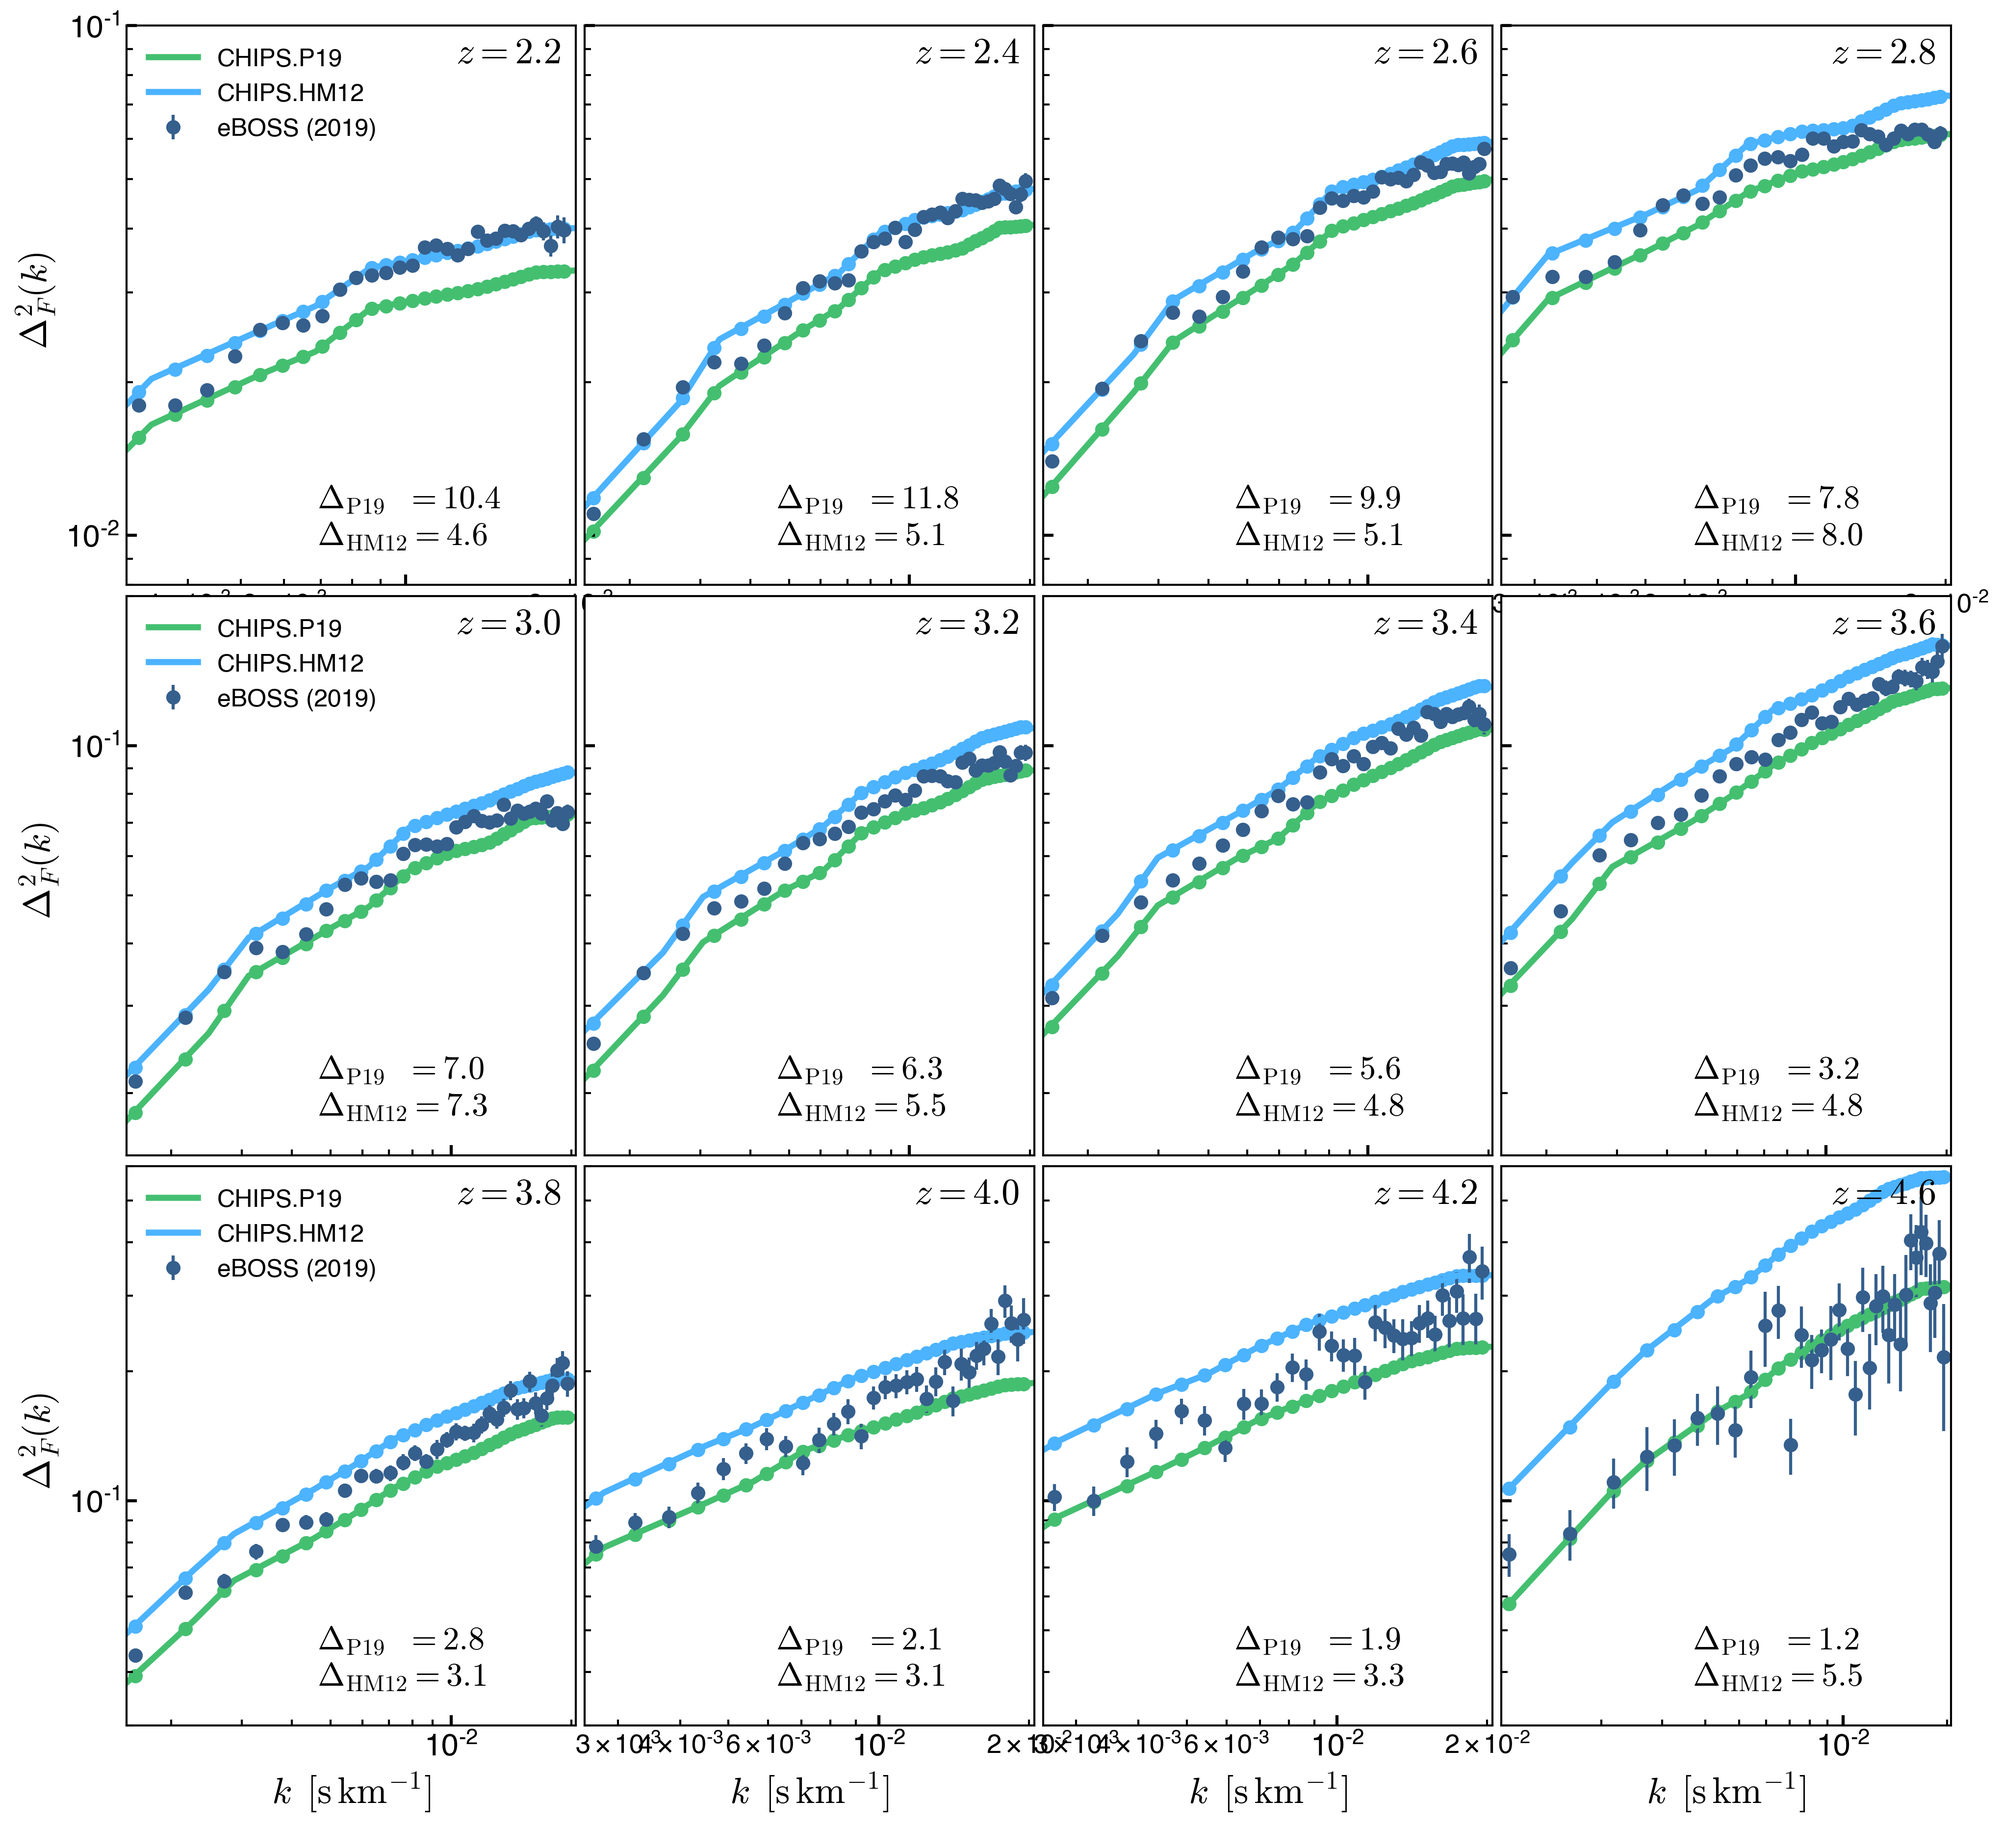
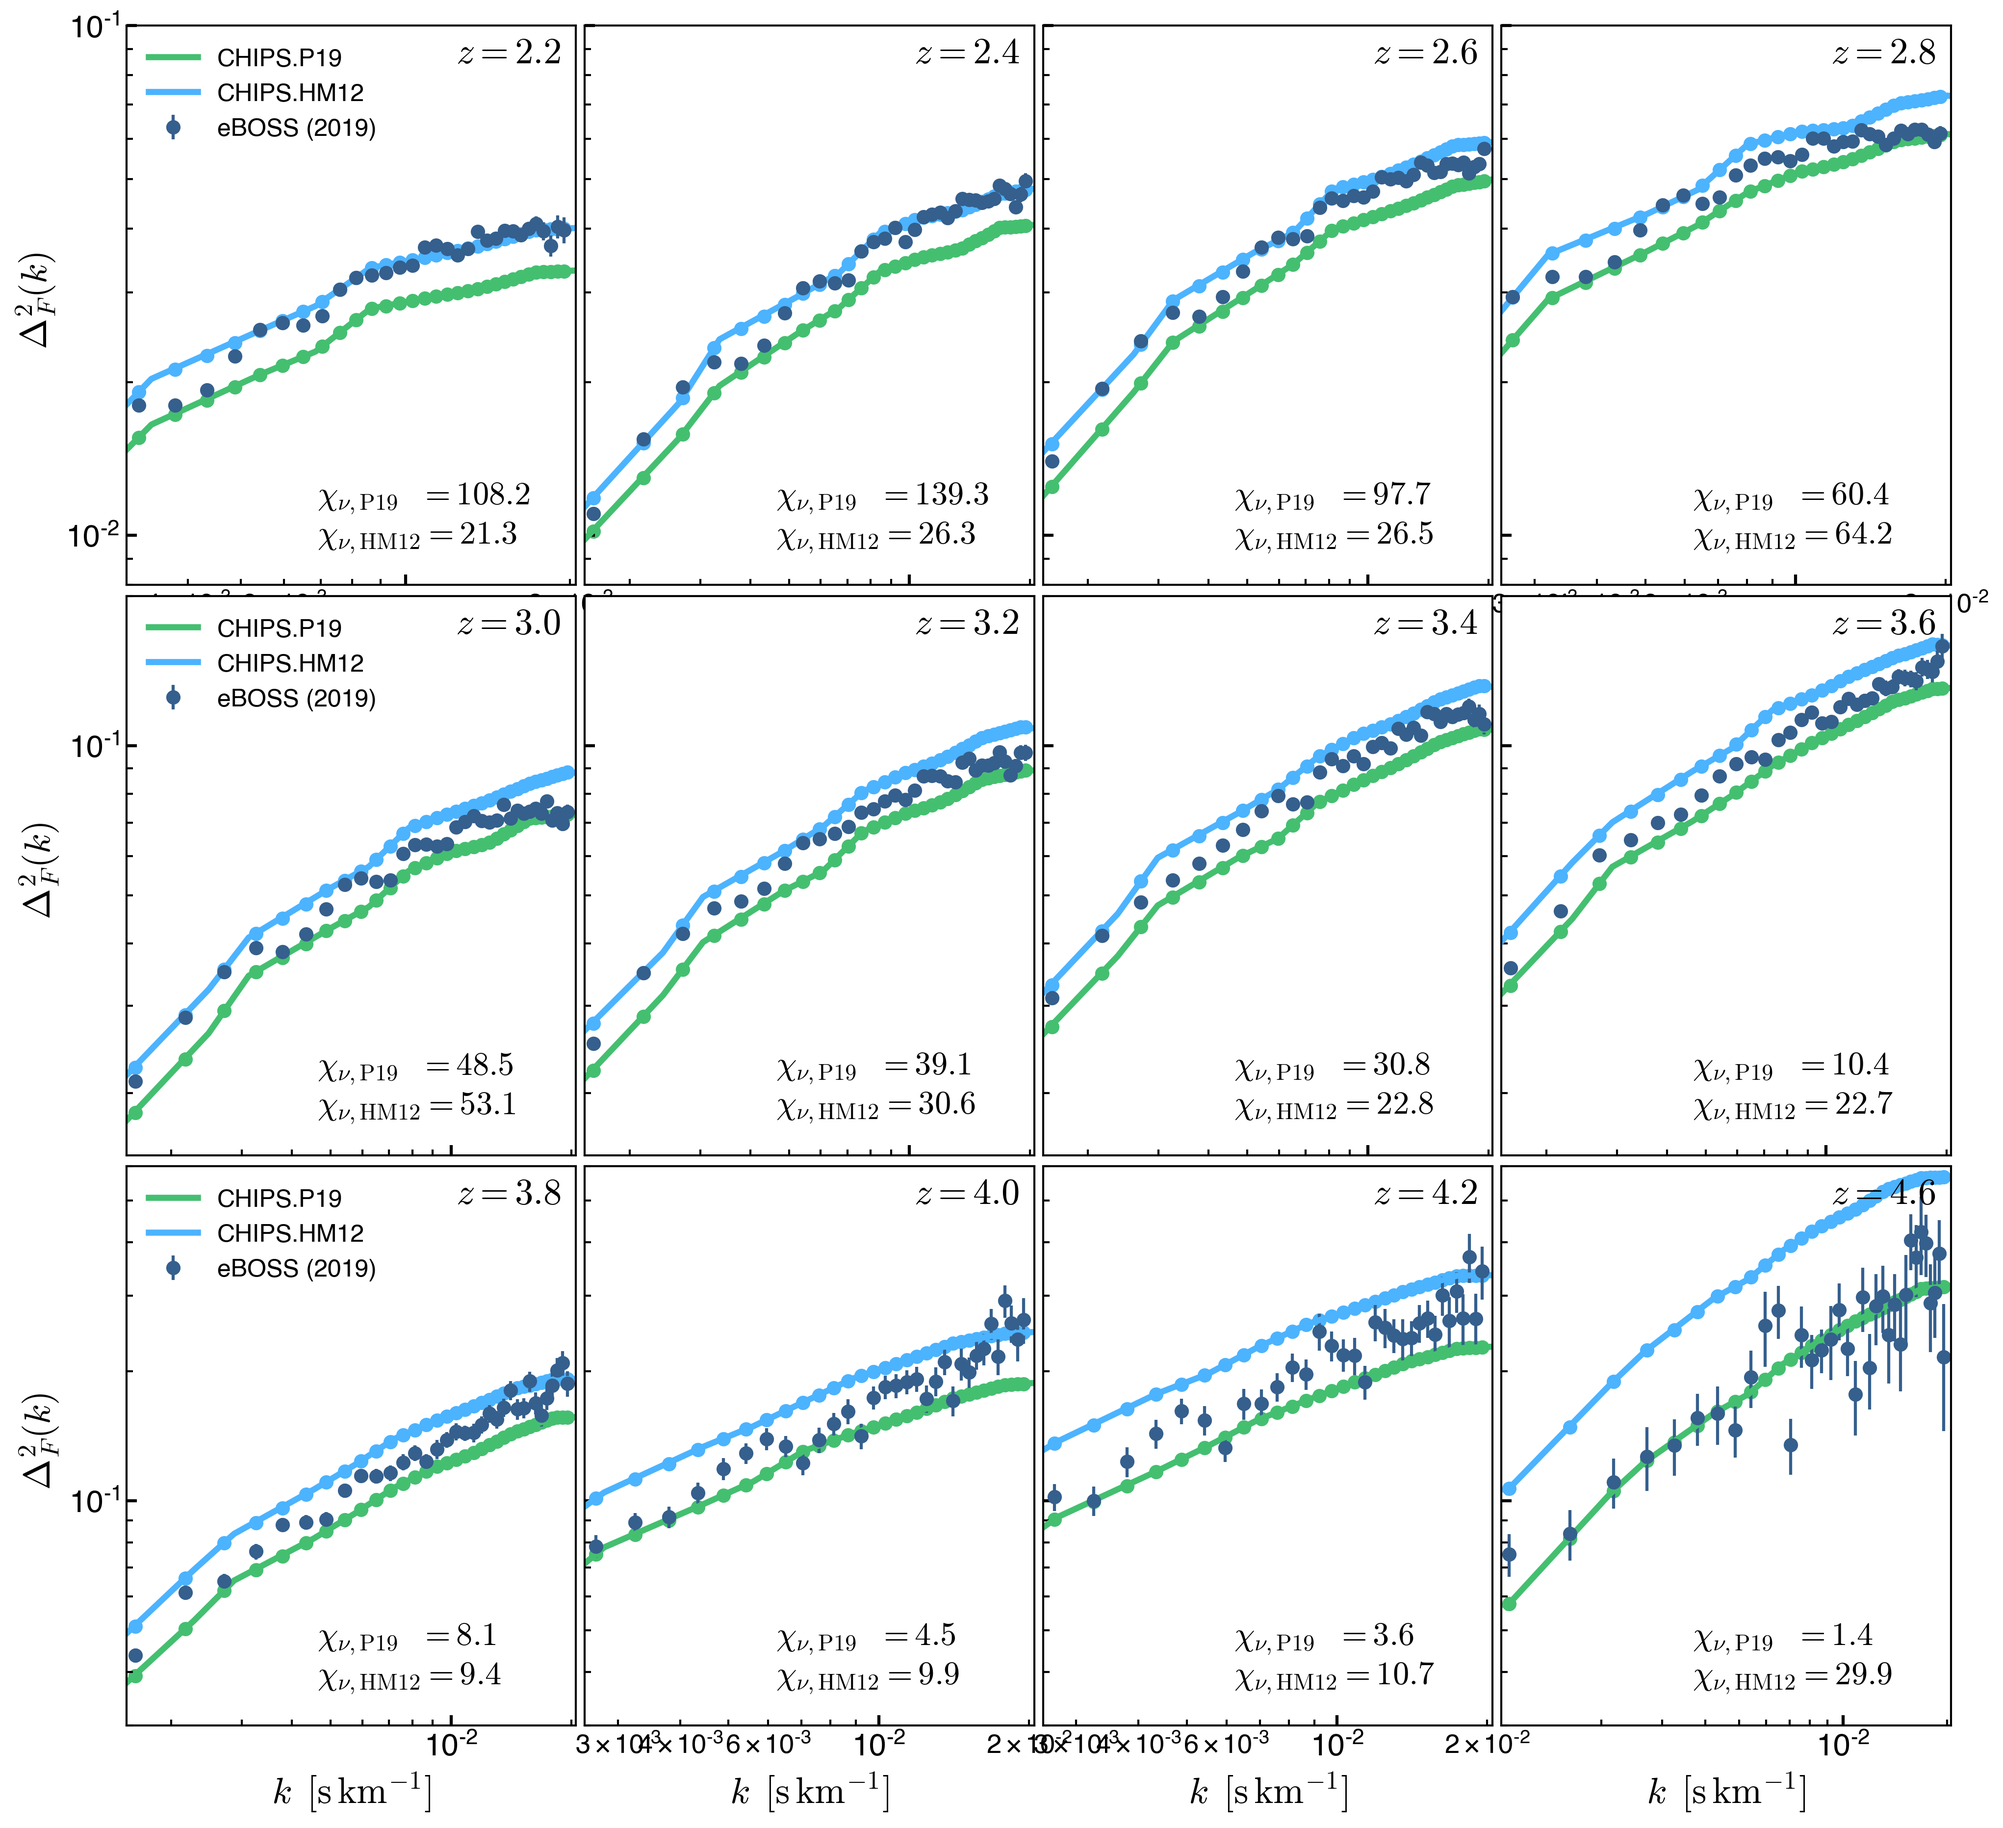
updated post

diff --git a/astro/_posts/2020-09-01-flux_ps_comparison_data.md b/astro/_posts/2020-09-01-flux_ps_comparison_data.md
@@ -12,23 +12,32 @@ $$  \chi^{2} = \sum_{i}^N \left[ \frac{ P(k_i)^{\mathrm{observ}} - P(k_i)^{\math
 
 
 
-The errors $$\Delta_{\mathrm{P19}}$$ and $$\Delta_{\mathrm{HM12}}$$ shown in the figures for each snapshot are computed as:
+The reduced error $$\chi^2_{\nu, \mathrm{P19}}$$ and $$\chi^2_{\nu, \mathrm{HM12}}$$ shown in the figures for each snapshot are computed as:
 
 
-$$\Delta = \sqrt{ \frac{ \chi^2 }{ N } } $$ 
-
-<img src="{{ site.url }}assets/images/fps_comparison_boss.png">
+$$\chi^2_{\nu} = \frac{ \chi^2 }{ N } } $$ 
 
 
 For the small scale  comparison the scales selected are $$ 0.01 \leq k \leq 0.1 \, \mathrm{s} \, \mathrm{km}^{-1} $$ and the measurements of $$\chi^2$$ is computed separately for each of the observational data sets. 
 
-<img src="{{ site.url }}assets/images/fps_comparison.png">
+<img src="{{ site.url }}assets/images/fps_comparison_k1.png">
+
+
+The distribution of $$\chi^2_{\nu}$$ for the two models is summarized in the following figure:
+
+
+<img src="{{ site.url }}assets/images/chi2_z.png">
+
+For $$2\lesssim z \lesssim 4.5$$,  $$ \langle \chi^2_\nu \rangle   \sim 2$$ for the P19 model  compared to $$ \langle \chi^2_\nu \rangle \sim 8$$ for the HM12 model
+
+
+For the large scale comparison with the eBOSS data the differences are much larger 
+
+<img src="{{ site.url }}assets/images/fps_comparison_boss.png">
+
+\
 
 
 
-Now comparig  $$ 0.02 \leq k \leq 0.1 \, \mathrm{s} \, \mathrm{km}^{-1} $$ 
-
-
-<img src="{{ site.url }}assets/images/fps_comparison_k2.png">
 
 
